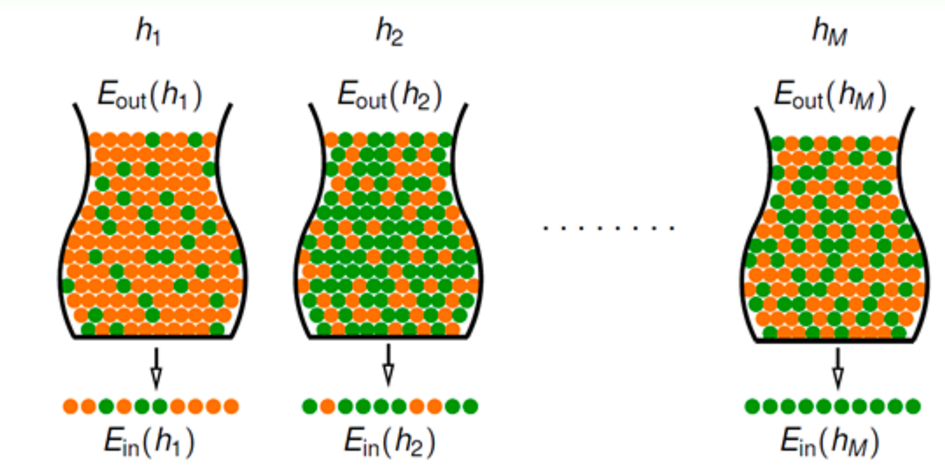
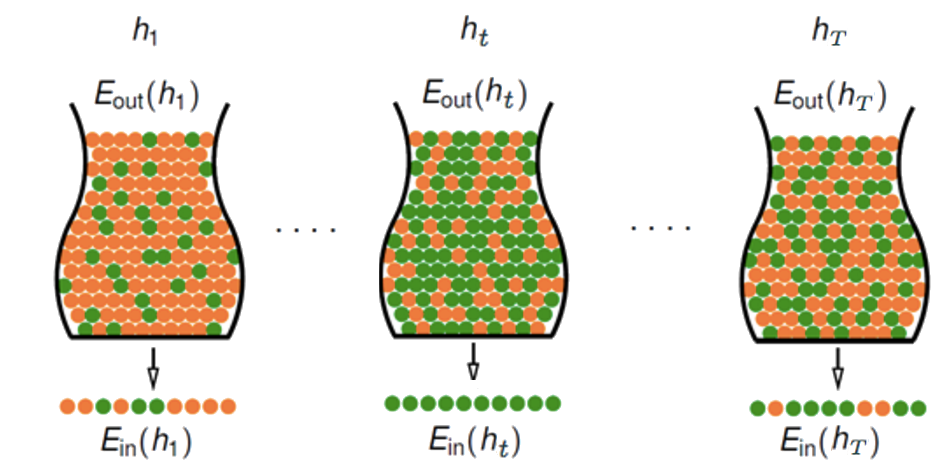
lecture 7: minor update

diff --git a/lecture7/lecture7.tex b/lecture7/lecture7.tex
@@ -24,7 +24,7 @@
 	Целевая функция: $f: X \rightarrow Y$\\
 	\bigbreak
 	Набор моделей алгоритмов $A_t: X \rightarrow Y$, $t \in T$ \\
-	Методы обучения $\mu_t: X \times Y \rightarrow A_t$, $t \in T$ \\
+	Методы обучения $\mu: (X \times Y)^l \rightarrow A_t$, $t \in T$ \\
 	\bigbreak
 	\alert{Задача}: Найти алгоритм $a \in A_t$  с наилучшей обобщающей способностью
 \end{frame}
@@ -120,13 +120,10 @@
 }
 
 {\foot{loss function}
-\begin{frame}{Функция потерь}
-  Задача классификации:\\
-  $\mathcal{L}(a, x_i) = [a(x_i) \neq y_i]$ -- индикатор ошибки\\
-  \bigbreak
-  Задача регрессии:\\
-  $\mathcal{L}(a, x_i) = \vert a(x_i) - y_i \vert$ -- абсолютное значение ошибки\\
-  $\mathcal{L}(a, x_i) = (a(x_i) - y_i)^2$ -- квадратичная ошибка\\
+\begin{frame}\frametitle{Примеры $\mathcal{L}$}
+	\begin{figure}[htbp]
+	  \includegraphics[height=160pt, keepaspectratio = true]{images/l}
+	\end{figure}
 \end{frame}
 }
 
@@ -164,6 +161,35 @@
 %  \textcolor{blue}{$0.63$}
 %\end{frame}
 
+{\foot{Learning curve}
+\begin{frame}{Кривая обучения}  
+  \includegraphics[width=\textwidth]{images/learning_curve}
+\end{frame}
+}
+
+\section{Почему случается переобучение?}
+
+\begin{frame}\frametitle{Проблема переобучения}
+	$a(\mathbf{x}, \mathbf{w}) = sign(\langle \mathbf{w}, \mathbf{x}\rangle)$\\
+	\bigbreak
+	\pause
+	Линейная зависимость признаков:\\
+	$\forall \mathbf{x} \exists \mathbf{u}: \langle \mathbf{u}, \mathbf{x}\rangle = 0$\\
+	$\Rightarrow \forall \gamma: a'(\mathbf{x}, \mathbf{w}) = sign(\langle \mathbf{w} + \gamma \mathbf{u}, \mathbf{x}\rangle)$\\
+	\bigbreak
+	\pause
+	Алгоритм $a'$ работает точно также как исходный $a$.\\
+	А значит мы можем получить любое решение из семейства $\mathbf{w} + \gamma \mathbf{u}$
+\end{frame}
+
+\begin{frame}\frametitle{Проблема переобучения}
+	\begin{itemize}
+		\item[--] Слишком мало объектов
+		\item[--] Слишком много признаков
+		\item[--] Линейная зависимость признаков
+	\end{itemize}
+\end{frame}
+
 \begin{frame}{Внешний функционал}  
   $$E_{in} = Q_{\mu}(X^l) = Q(\mu(X^l), X^l)$$\\
   \bigbreak
@@ -177,12 +203,6 @@
     Сильная зависимость от разбиения $X^l = X^t \sqcup X^k$
   }
 \end{frame}
-
-{\foot{Learning curve}
-\begin{frame}{Кривая обучения}  
-  \includegraphics[width=\textwidth]{images/learning_curve}
-\end{frame}
-}
 
 {\foot{Полный скользящий контроль, cross-validation}
 \begin{frame}{Кроссвалидация}  
@@ -236,9 +256,9 @@
 \begin{frame}{Как использовать аналитические оценки}  
   \begin{enumerate}
     \item Получить верхнюю оценку вероятности переобучения $R_{\varepsilon}$\\
-      $$R_{\varepsilon}(\mu, X^l) = P[E_{out} - E_{in} \geq \varepsilon] \leq \eta(\varepsilon, A)$$
-    \item Тогда для любых $X^l$, $A$, $\mu$ и $\eta$ с вероятностью не менее $1-\eta$ справедливо\\
-      $$E_{out} \leq E_{in} + \varepsilon(\eta, A)$$
+      $$R_{\varepsilon}(\mu, X^l) = P[E_{out} - E_{in} > \varepsilon] \leq \eta(\varepsilon, A)$$
+    \item Тогда с вероятностью не менее $1-\eta$ справедливо\\
+      $$E_{out} < E_{in} + \varepsilon(\eta, A)$$
     \item Будем оптимизивать \\
       $$E_{in} + \varepsilon(\eta, A) \rightarrow \min\limits_{\mu}$$
   \end{enumerate}
@@ -250,7 +270,7 @@
 
 \begin{frame}{Неравенство Бернштейна-Хёфдинга}
   \begin{minipage}[t]{0.5\linewidth}
-    $$P[\vert \nu - \mu \vert < \varepsilon ] \leq 2 e^{-2 \varepsilon^2 l} $$\\
+    $$P[\vert a - b \vert > \varepsilon ] \leq 2 e^{-2 \varepsilon^2 l} $$\\
   \end{minipage}%
   \begin{minipage}{0.45\textwidth}
     \begin{center}
@@ -261,28 +281,28 @@
 
   \end{minipage}%
     \bigbreak
-    $\nu$ -- доля оранжевых шаров в выборке размера $l$\\
-    $\mu$ -- истинная доля оранжевых шаров в данных 
+    $a$ -- доля оранжевых шаров в выборке размера $l$\\
+    $b$ -- истинная доля оранжевых шаров 
   
 \end{frame}
 
-\section{Какое отношение это имеет к нашим гипотезам?}
+\section{Какое отношение это имеет к нашим моделям?}
 
 \begin{frame}
   Каждый шар это объект $x$ из пространства $X$.\\
   Неизвестная целевая функция $f$.\\
   \bigbreak
-  Оранжевый шар -- модель $h$ верна ($h(x) = f(x)$)\\
-  Зелёный шар -- модель $h$ не верна ($h(x) \neq f(x)$)\\
+  Зелёный шар -- модель $h$ верна ($h(x) \neq f(x)$)\\  
+  Оранжевый шар -- модель $h$ не верна ($h(x) = f(x)$)\\  
   \bigbreak
-  По выборке $X^l$ можем оценить $\nu$ -- долю объектов, на которых верна модель.
+  По выборке $X^l$ можем оценить долю объектов, на которых модель ошибается.
 \end{frame}
 
 \begin{frame}{$E_{in}$ и $E_{out}$}
-  $E_{in}(h) = \nu$ - доля объектов в выборке $X^l$, на которых $h$ верна\\
-  $E_{out}(h) = \mu$ - доля объектов во всём множестве $X$, на которых $h$ верна\\
+  $E_{in}(h) = a$ - доля объектов в выборке $X^l$, на которых $h$ ошибается\\
+  $E_{out}(h) = b$ - доля объектов во всём множестве $X$, на которых $h$ ошибается\\
   \bigbreak
-  $$P[\vert E_{in}(h) - E_{out}(h) \vert < \varepsilon ] \leq 2 e^{-2 \varepsilon^2 l} $$\\
+  $$P[\vert E_{in}(h) - E_{out}(h) \vert > \varepsilon ] \leq 2 e^{-2 \varepsilon^2 l} $$\\
   \bigbreak
   Неравенство выполняется для каждой модели.
 \end{frame}
@@ -311,13 +331,13 @@
 \begin{frame} {К нашей задаче}
   \includegraphics[width=\textwidth, keepaspectratio]{images/bins}
   
-  На $h_M$ модели наблюдаем переобучение.
+  На $h_t$ модели наблюдаем переобучение.
 \end{frame}
 
 \begin{frame} {Решение}
   \begin{align*}
-    P[\vert E_{in}(a) - E_{out}(a) \vert < \varepsilon ] &\leq \sum\limits_{m=1}^M P[\vert E_{in}(h) - E_{out}(h) \vert < \varepsilon ] \\
-    & \leq 2\textcolor{orange}{M} e^{-2 \varepsilon^2 l} 
+    P[\vert E_{in}(a) - E_{out}(a) \vert > \varepsilon ] &\leq \sum\limits_{t=1}^T P[\vert E_{in}(h) - E_{out}(h) \vert > \varepsilon ] \\
+    & \leq 2\textcolor{orange}{T} e^{-2 \varepsilon^2 l} 
   \end{align*}
 \end{frame}
 
@@ -341,11 +361,11 @@
 %\end{frame}
 %}
 
-\begin{frame}{Полная и поточечная ошибка}  
-  $$E_{in}(h, X^l) = \frac{1}{l} \sum\limits_{i=1}^l \mathcal{L}(h, x_i)$$\\
-  \bigbreak
-  $$E_{out} = \mathbb{E}_x \mathcal{L}(h, x) $$
-\end{frame}
+%\begin{frame}{Полная и поточечная ошибка}  
+%  $$E_{in}(h, X^l) = \frac{1}{l} \sum\limits_{i=1}^l \mathcal{L}(h, x_i)$$\\
+%  \bigbreak
+%  $$E_{out} = \mathbb{E}_x \mathcal{L}(h, x) $$
+%\end{frame}
 
 %\begin{frame}{Шум в наблюдениях}  
 %  Что делать, если два абсолютно одинаковых объекта выборки (с точки зрения параметров) имеют разные значения $y$?
@@ -360,24 +380,24 @@
 %  $f(x) = \mathbb{E}(y|x)$ + шум $y - f(x)$
 %\end{frame}
 
-\begin{frame}{Обучение в терминах вероятности}  
-  В идеале хотим достичь $E_{out}(a) = 0$\\
-  \bigbreak
-  Пытаемся достичь $E_{in}(a) \approx E_{out}(a)$ и $E_{in}(a) = 0$
-  \bigbreak
-  \pause
-  Два вопроса:\\
-  \begin{enumerate}
-    \item Можно ли судить о $E_{out}$ по $E_{in}$?
-    \item Как уменьшить $E_{in}$?
-  \end{enumerate}
-\end{frame}
+%\begin{frame}{Обучение в терминах вероятности}  
+%  В идеале хотим достичь $E_{out}(a) = 0$\\
+%  \bigbreak
+%  Пытаемся достичь $E_{in}(a) \approx E_{out}(a)$ и $E_{in}(a) = 0$
+%  \bigbreak
+%  \pause
+%  Два вопроса:\\
+%  \begin{enumerate}
+%    \item Можно ли судить о $E_{out}$ по $E_{in}$?
+%    \item Как уменьшить $E_{in}$?
+%  \end{enumerate}
+%\end{frame}
+%
+%\begin{frame}{Сложность модели}  
+%  \includegraphics[ width=\textwidth, keepaspectratio]{images/vc}
+%\end{frame}
 
-\begin{frame}{Сложность модели}  
-  \includegraphics[ width=\textwidth, keepaspectratio]{images/vc}
-\end{frame}
-
-\section{Какое количество гипотез в нашем пространстве $\mathcal{H}$?}
+\section{Какое количество моделей в нашем пространстве $\mathcal{H}$?}
 
 \begin{frame}{Близость моделей} 
   \centering 
@@ -415,6 +435,7 @@
 {\foot{коэффициент разнообразия}
 \begin{frame}{Дихотомии}  
   $$P(\vert E_{in}(a) - E_{out}(a) \vert > \varepsilon) \leq 2 M e^{-2\varepsilon^2l}$$  \\
+  \bigbreak
   Наш набор моделей $\mathcal{H}$ может породить $\vert \mathcal{H}(x_1,\dots, x_l) \vert$ дихотомий.\\
   $$\vert \mathcal{H}(x_1,\dots, x_l) \vert \leq 2^l$$\\
   При этом сам набор моделей может быть бесконечным.
@@ -429,7 +450,7 @@
 \end{frame}
 
 \begin{frame} {Функция роста $m_{\mathcal{H}(l)}$}
-  Гипотезы:\\  
+  Модели:\\  
   \begin{enumerate}
     \item Луч на множестве точек: $m_{\mathcal{H}}(l) = l+1 $
     \item Интервал на множестве точек: $m_{\mathcal{H}}(l) = C_{l+1}^2 + 1$
@@ -490,6 +511,13 @@
 \end{frame}
 
 \appendix
+
+\begin{frame}\frametitle{Что почитать по этой лекции}
+  \begin{itemize}
+    \item \href{http://work.caltech.edu/telecourse.html}{Professor Yaser Abu-Mostafa MOOC}
+    \item Tom Mitchell "Machine Learning" Chapter 4
+  \end{itemize}
+\end{frame}
 
 \begin{frame}\frametitle{На следующей лекции}
 	\begin{itemize}
